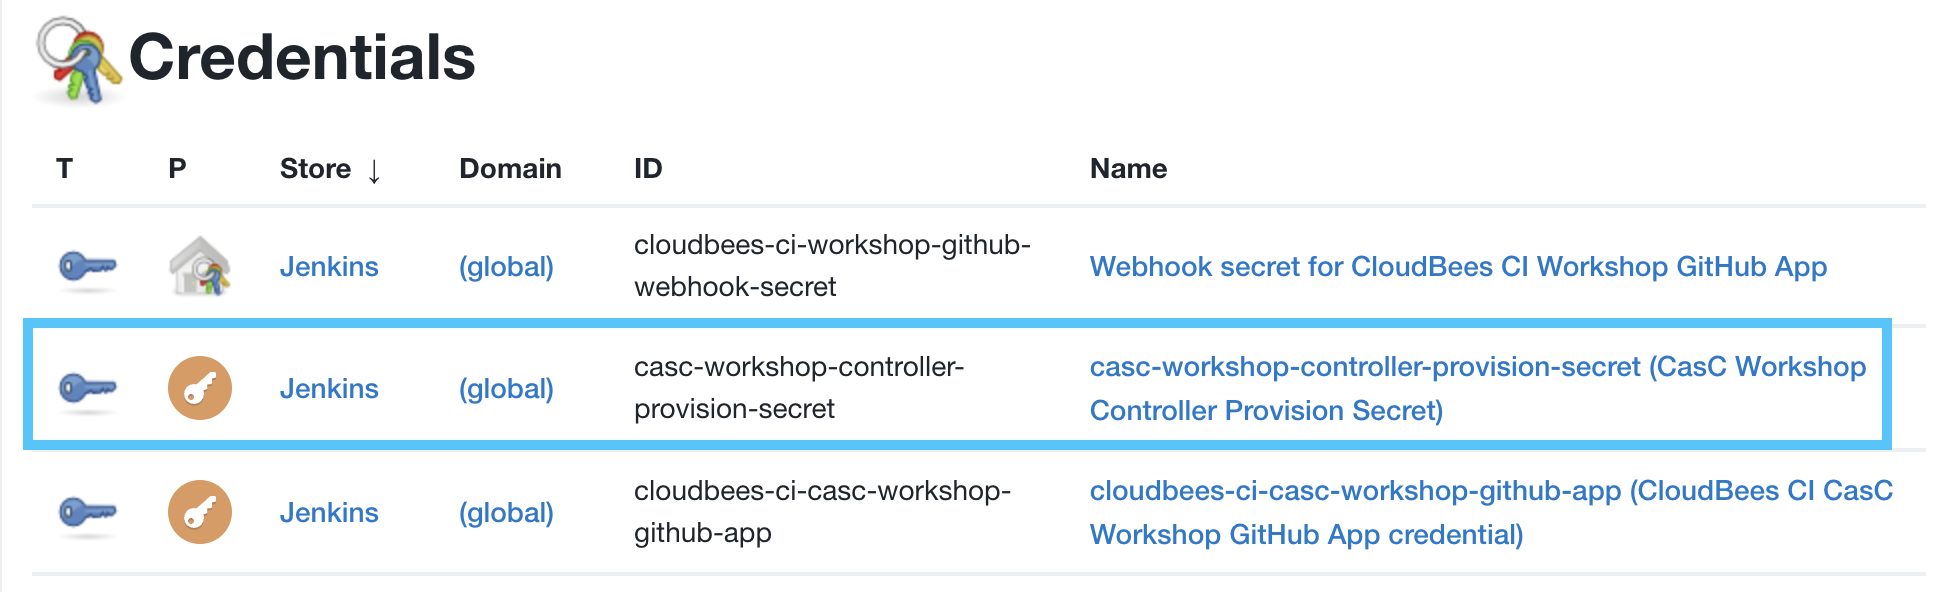
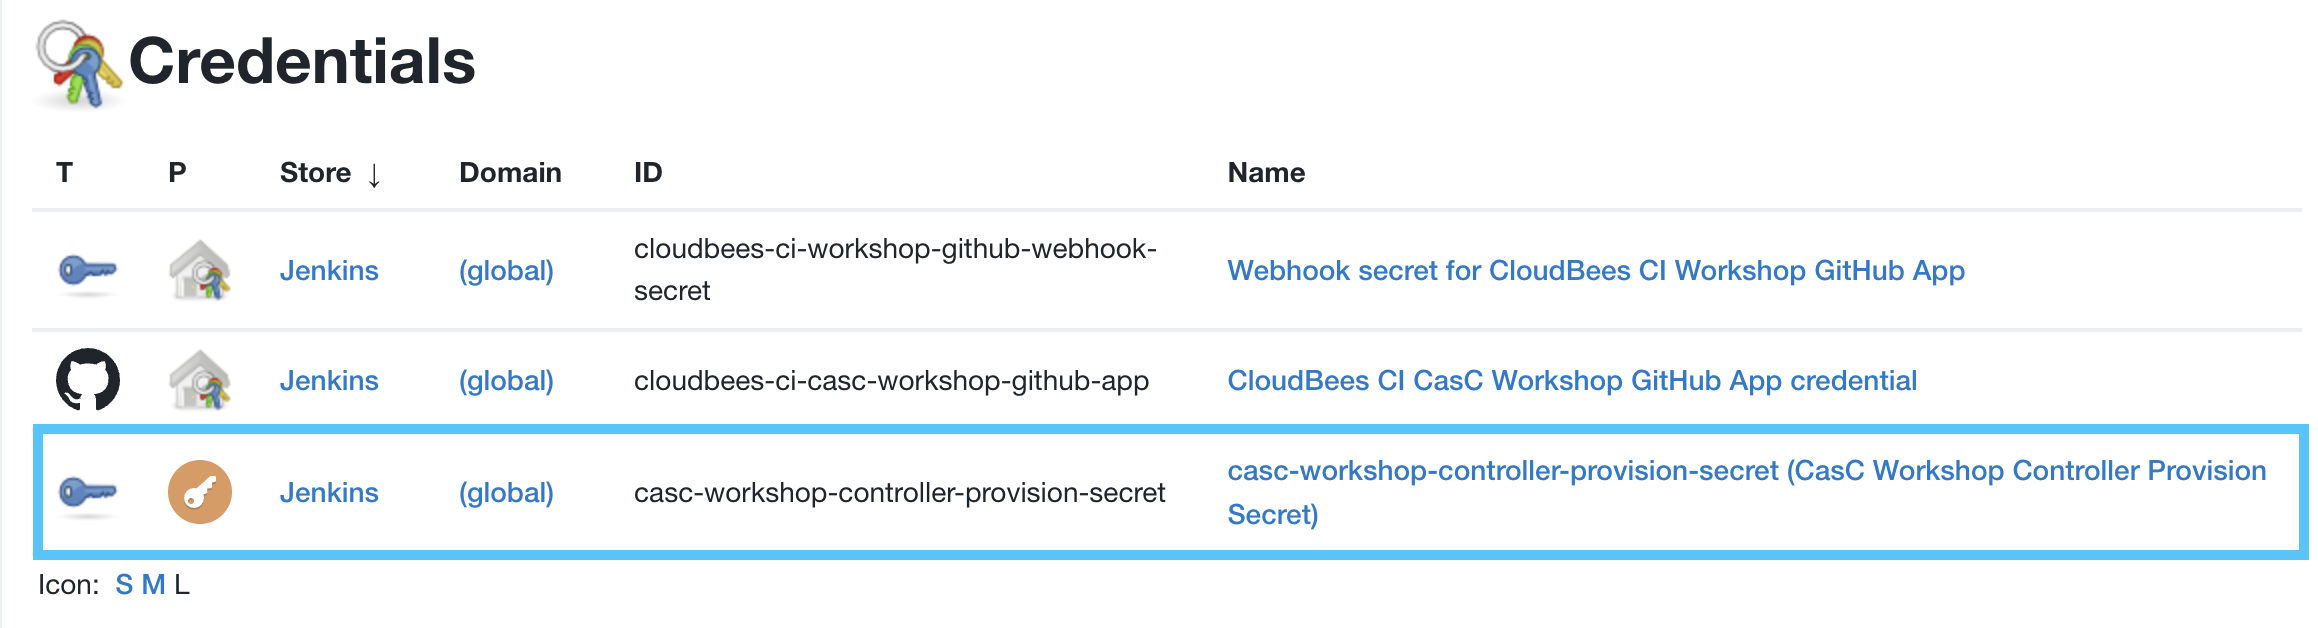
adding items

diff --git a/labs/cloudbees-ci-casc/content/labs/provisioning-with-casc.md b/labs/cloudbees-ci-casc/content/labs/provisioning-with-casc.md
@@ -6,10 +6,10 @@ weight: 5
 
 The parent `base` bundle we explored in the previous lab is also configured to be the default bundle for all managed controllers that do not specify one. This allows you to easily manage configuration across all of your organization's managed controllers, but it does not allow for any variations in configuration bundles between controllers. Also, the number of manual steps to provision a managed controller, and apply controller specific bundles to numerous controllers, wastes time and is prone to configuration errors. Imagine if you had dozens or even hundreds of controllers (like we do in this workshop), things would quickly become very difficult to manage.
 
-In this lab we will explore a GitOps approach for automating the process of provisioning a controller to include automating the configuration and application of a controller specific configuration bundle. This approach is based on individual repositories representing individual controllers, and takes advantage of the Jenkins GitHub Organization project type and CloudBees CI custom marker file we setup earlier. After we are done updating the `controller-casc-automation` Jenkins pipeline script in our copy of the `ops-controller` repository, a new controller will be provisioned any time you add a new GitHub repository with a `bundle.yaml` file to your workshop GitHub Organization. The managed controller will have the same name as the repository and will be provisioned with the configuration bundle from the associated GitHub repository (one other approach may be to use folders in one repository to represent each controller).
+In this lab we will explore a GitOps approach for automating the process of provisioning a controller, to include automating the configuration and application of a controller specific configuration bundle. This approach is based on individual repositories representing individual controllers, and takes advantage of the Jenkins GitHub Organization project type and CloudBees CI custom marker file we setup earlier. After we are done updating the `controller-casc-automation` Jenkins pipeline script in our copy of the `ops-controller` repository, a new controller will be provisioned any time you add a new GitHub repository with a `bundle.yaml` file to your workshop GitHub Organization. The managed controller will have the same name as the repository and will be provisioned with the configuration bundle from the associated GitHub repository (one other approach may be to use folders in one repository to represent each controller).
 
 {{% notice note %}}
-Another GitOps type approach you may be interested in is using CloudBees CI CasC for CloudBees CI Cloud Operations Center which allows you define individual managed controllers as `items`. However, as of the `2.303.3.3` release, the managed controllers are not automatically provisioned when the bundle is loaded but will be available in a future version of CloudBees CI on Kubernetes.
+Another GitOps type approach you may be interested in is using CloudBees CI CasC for CloudBees CI Cloud Operations Center which allows you define individual managed controllers as `items`. However, as of the `2.303.3.3` release, the managed controllers are not automatically provisioned when the bundle is loaded but automatic provisiong will be available in a future version of CloudBees CI on Kubernetes.
 {{% /notice %}}
 
 ## GitOps for Controller Provisioning with CloudBees CI Configuration Bundles
@@ -124,7 +124,10 @@ Now that we have reviewed the pipeline and Groovy script for the workshop provis
 3. Click on the `jcasc/credentials.yaml` and then click on the ***Edit this file*** pencil button.
 4. Add the following new `credential` under `restrictedSystem`->`domainCredentials`:
 ```yaml
-    - allowList: "controller-jobs/cbci-casc-automation/**/*"
+
+  restrictedSystem:
+    domainCredentials:
+    - allowList: "controller-jobs/cbci-casc-automation/**/main"
       credentials:
         string:
           description: "CasC Workshop Controller Provision Secret"
@@ -138,22 +141,13 @@ Now that we have reviewed the pipeline and Groovy script for the workshop provis
 credentials:
   restrictedSystem:
     domainCredentials:
-    - allowList: "controller-jobs/cbci-casc-automation/**/*"
+    - allowList: "controller-jobs/cbci-casc-automation/**/main"
       credentials:
         string:
           description: "CasC Workshop Controller Provision Secret"
           id: "casc-workshop-controller-provision-secret"
           scope: GLOBAL
           secret: "${cbciCascWorkshopControllerProvisionSecret}"
-    - allowList: "controller-jobs/cbci-casc-automation/**/*"
-      credentials:
-        gitHubApp:
-          apiUri: "https://api.github.com"
-          appID: "${cbciCascWorkshopGitHubAppId}"
-          description: "CloudBees CI CasC Workshop GitHub App credential"
-          id: "cloudbees-ci-casc-workshop-github-app"
-          owner: "${GITHUB_ORGANIZATION}"
-          privateKey: "${cbciCascWorkshopGitHubAppPrivateKey}"
   system:
     domainCredentials:
     - credentials:
@@ -162,14 +156,22 @@ credentials:
           id: "cloudbees-ci-workshop-github-webhook-secret"
           scope: SYSTEM
           secret: "${gitHubWebhookSecret}"
+      - gitHubApp:
+          apiUri: "https://api.github.com"
+          appID: "${cbciCascWorkshopGitHubAppId}"
+          description: "CloudBees CI CasC Workshop GitHub App credential"
+          id: "cloudbees-ci-casc-workshop-github-app"
+          owner: "${GITHUB_ORGANIZATION}"
+          privateKey: "${cbciCascWorkshopGitHubAppPrivateKey}"
 ```
 {{% /expand%}}
 
 5. Commit the `jcasc/credentials.yaml` file directly to the `main` branch of your `ops-controller` repository. ![Commit credentials.yaml](commit-credentials.png?width=50pc)
-6. Navigate to the `main` branch job of the `ops-controller` Multibranch pipeline project on your Ops controller. ![ops-controller Mulitbranch](ops-controller-multibranch-jcasc.png?width=50pc)
-7. After the the `main` branch job has completed successfully, navigate to the top level of your Ops controller, click on the **Manage Jenkins** link in the left menu, and then click on the **Manage Credentials** link. ![Manage Credentials link](manage-credentials-link.png?width=50pc)
-11. On the **Credentials** management page you will see a new **CasC Workshop Controller Provision Secret** credential.  ![New Credential](new-credential.png?width=50pc)
-11. Return to your copy of the `ops-controller` repository, click on the `controller-casc-automation` pipeline script and then click on the ***Edit this file*** pencil button.
+6. Next, click on the `bundles.yaml` file and then click on the ***Edit this file*** pencil button. In the GitHub file editor for the `bundle.yaml` file, update the `version` field to **5** and commit the `bundle.yaml` file directly to the `main` branch of your `ops-controller` repository.
+7. Navigate to the `main` branch job of the `ops-controller` Multibranch pipeline project on your Ops controller. ![ops-controller Mulitbranch](ops-controller-multibranch-jcasc.png?width=50pc)
+8. After the the `main` branch job has completed successfully, navigate to the top level of your Ops controller, click on the **Manage Jenkins** link in the left menu, and then click on the **Manage Credentials** link. ![Manage Credentials link](manage-credentials-link.png?width=50pc)
+9. On the **Credentials** management page you will see a new **CasC Workshop Controller Provision Secret** credential.  ![New Credential](new-credential.png?width=50pc)
+10. Return to your copy of the `ops-controller` repository, click on the `controller-casc-automation` pipeline script and then click on the ***Edit this file*** pencil button.
 11. Add the following `stage` after the existing **Update Config Bundle** `stage`. It is important that the **Publish Provision Controller Event** `stage` comes after the **Update Config Bundle** `stage` as the managed controller's configuration bundle must exist before it can be provisioned with a configuration bundle. Also recall from the review above that the target job's `eventTrigger` is looking to match `controller.action=='provision'` and will validate the `PROVISION_SECRET` we are passing in.
 ```groovy
     stage('Publish Provision Controller Event') {
@@ -214,14 +216,11 @@ pipeline {
         echo "begin config bundle reload"
         script {
           try {
-            sh "curl -O https://raw.githubusercontent.com/cloudbees-days/ops-workshop-setup/master/groovy/reload-casc.groovy"
-            sh "curl -O http://${GITHUB_ORG}-${GITHUB_REPO}/${GITHUB_ORG}-${GITHUB_REPO}/jnlpJars/jenkins-cli.jar"
             withCredentials([usernamePassword(credentialsId: 'admin-cli-token', usernameVariable: 'JENKINS_CLI_USR', passwordVariable: 'JENKINS_CLI_PSW')]) {
-                sh """
-                  alias cli='java -jar jenkins-cli.jar -s http://${GITHUB_ORG}-${GITHUB_REPO}/${GITHUB_ORG}-${GITHUB_REPO}/ -auth $JENKINS_CLI_USR:$JENKINS_CLI_PSW'
-                  cli casc-bundle-check-bundle-update
-                  cli casc-bundle-reload-bundle
-                """
+                sh '''
+                  curl --user $JENKINS_CLI_USR:$JENKINS_CLI_PSW -XGET http://${GITHUB_ORG}-${GITHUB_REPO}/${GITHUB_ORG}-${GITHUB_REPO}/casc-bundle-mgnt/check-bundle-update 
+                  curl --user $JENKINS_CLI_USR:$JENKINS_CLI_PSW -XPOST http://${GITHUB_ORG}-${GITHUB_REPO}/${GITHUB_ORG}-${GITHUB_REPO}/casc-bundle-mgnt/reload-bundle/
+                '''
             }
           } catch (Exception e) {
               echo 'Exception occurred: ' + e.toString()
@@ -246,7 +245,7 @@ pipeline {
 {{% /expand%}}
 
 12. Commit the changes directly to the `main` branch. ![Commit pipeline job](commit-pipeline.png?width=50pc)
-13. After you commit the file, your GitHub Organization pipeline job for the `main` branch of your `ops-controller` repository will be triggered. However, nothing will actually be updated or created because your Ops controller already exists and there were no configuration bundle changes. But we are now ready to dynamically provision a new managed controller for your GitHub Organization.
+13. After you commit the file, your GitHub Organization pipeline job for the `main` branch of your `ops-controller` repository will be triggered. However, nothing will actually be updated or created because your Ops controller already exists and there were no configuration bundle changes. But we are now ready to dynamically provision a new managed controller from your GitHub Organization.
 
 ### Create a new managed controller repository
 In the previous section you updated your Ops controller `controller-casc-automation` pipeline script to publish an event to trigger the provisioning of a managed controller with a configuration bundle. Now you will triggers the provisioning of a managed controller by creating a new GitHub repository in your workshop GitHub Organization and adding a `bundle.yaml` file to it.
